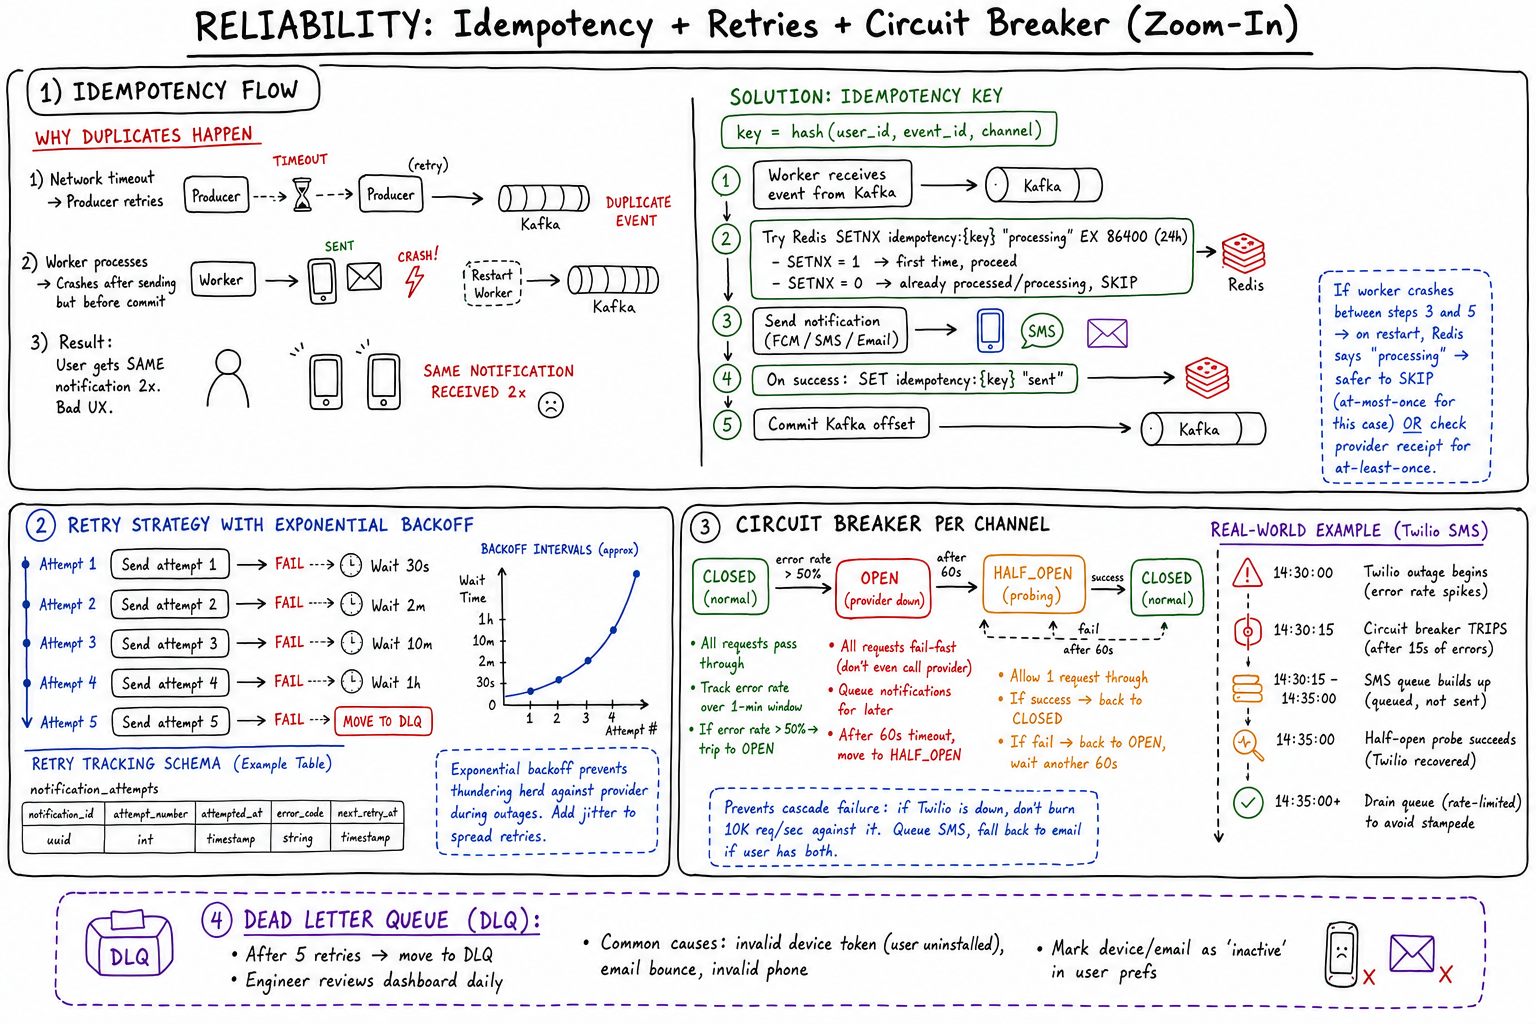
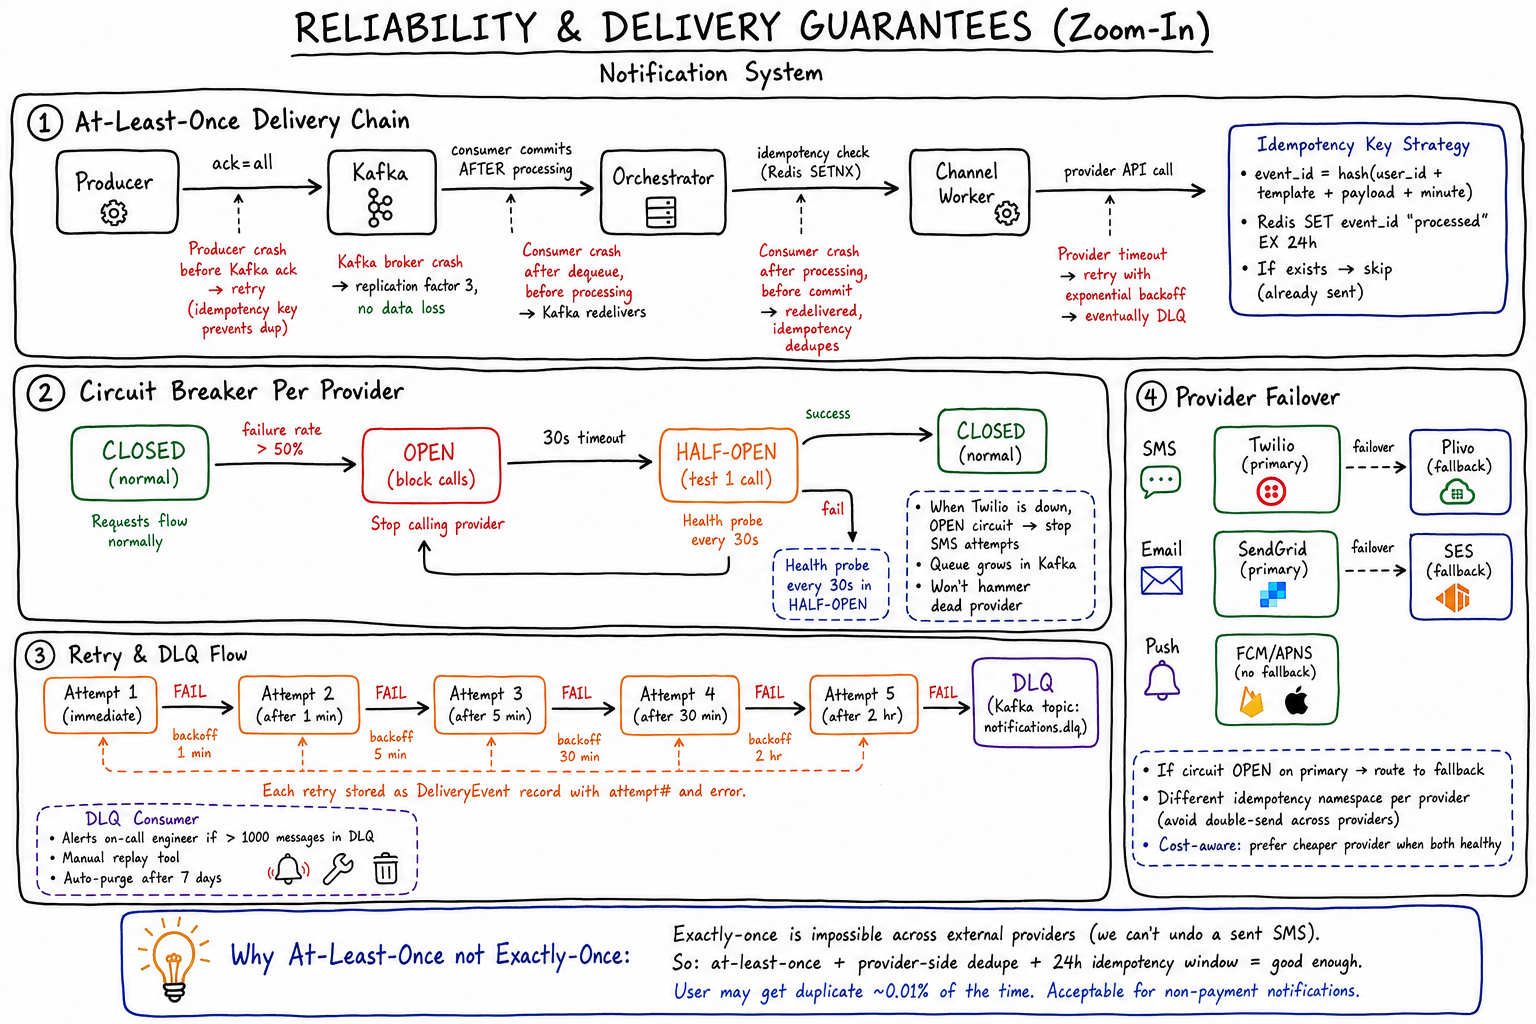
Add detailed whiteboard diagrams to Notification System HLD

Changed region(s): [[0.0, 0.0, 1.0, 1.0]]

diff --git a/docs/cheatsheets/hld/notification-system.html b/docs/cheatsheets/hld/notification-system.html
@@ -562,6 +562,11 @@ Separate consumer groups per channel sender.
 </section>
 
 <!-- 09 RELIABILITY -->
+<div class="diagram">
+  <img src="img/notification-reliability-zoom.png" alt="Reliability and delivery guarantees zoom-in">
+</div>
+<p class="diagram-caption">Zoom-in: at-least-once delivery chain (producer &rarr; Kafka &rarr; orchestrator &rarr; worker &rarr; provider) with failure handling at each step. Circuit breaker state machine (CLOSED/OPEN/HALF-OPEN), exponential retry staircase, DLQ flow, and provider failover (Twilio &rarr; Plivo, SendGrid &rarr; SES).</p>
+
 <section id="reliability">
   <h2>09 &mdash; Reliability</h2>
 
@@ -652,6 +657,11 @@ INCR &rarr; if &gt; 10 &rarr; skip
 </section>
 
 <!-- 11 SCHEDULING & BLASTS -->
+<div class="diagram">
+  <img src="img/notification-scheduling-zoom.png" alt="Scheduled notifications and marketing blasts zoom-in">
+</div>
+<p class="diagram-caption">Zoom-in: scheduled notifications using SELECT FOR UPDATE SKIP LOCKED (3 workers polling concurrently with no waiting and no duplicates). Marketing blast 1M-user fan-out via chunker + Kafka with separate topic priorities for transactional vs marketing vs scheduled.</p>
+
 <section id="scheduling">
   <h2>11 &mdash; Scheduling &amp; Marketing Blasts</h2>
 